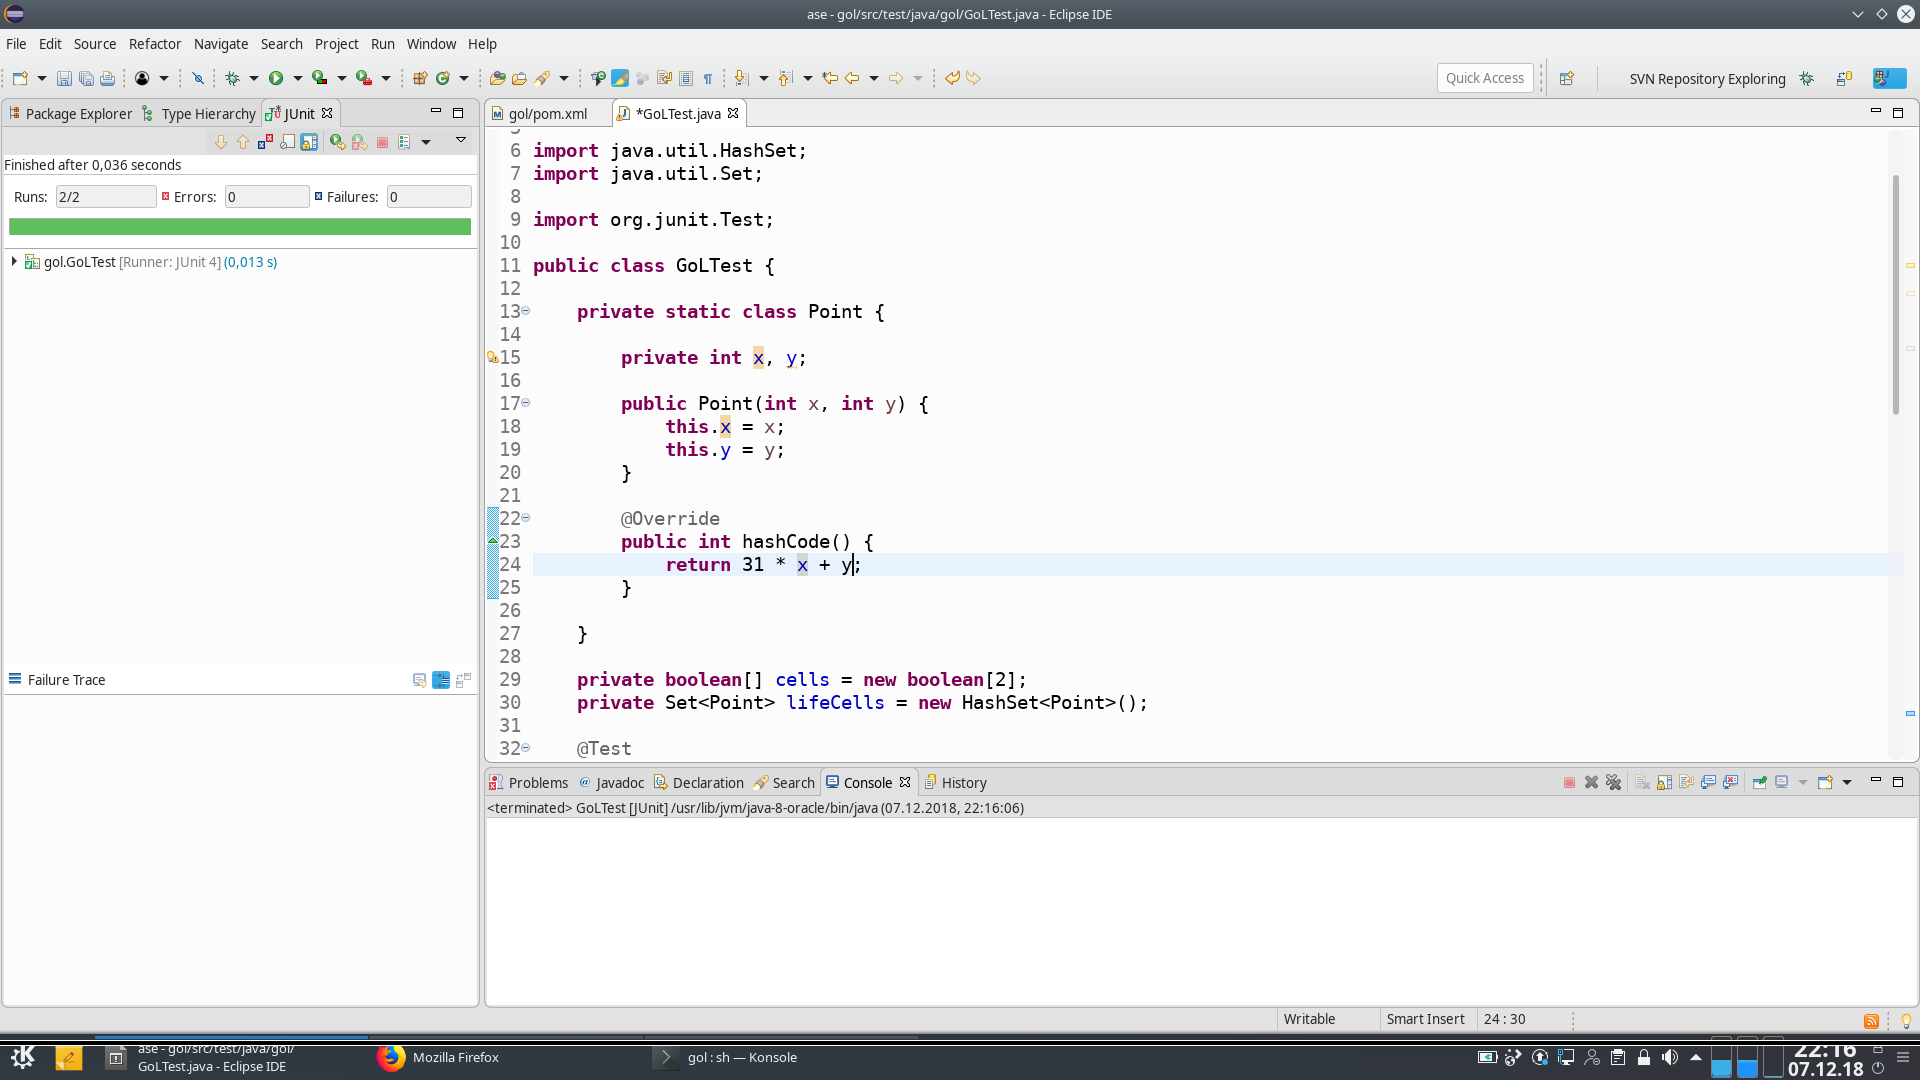
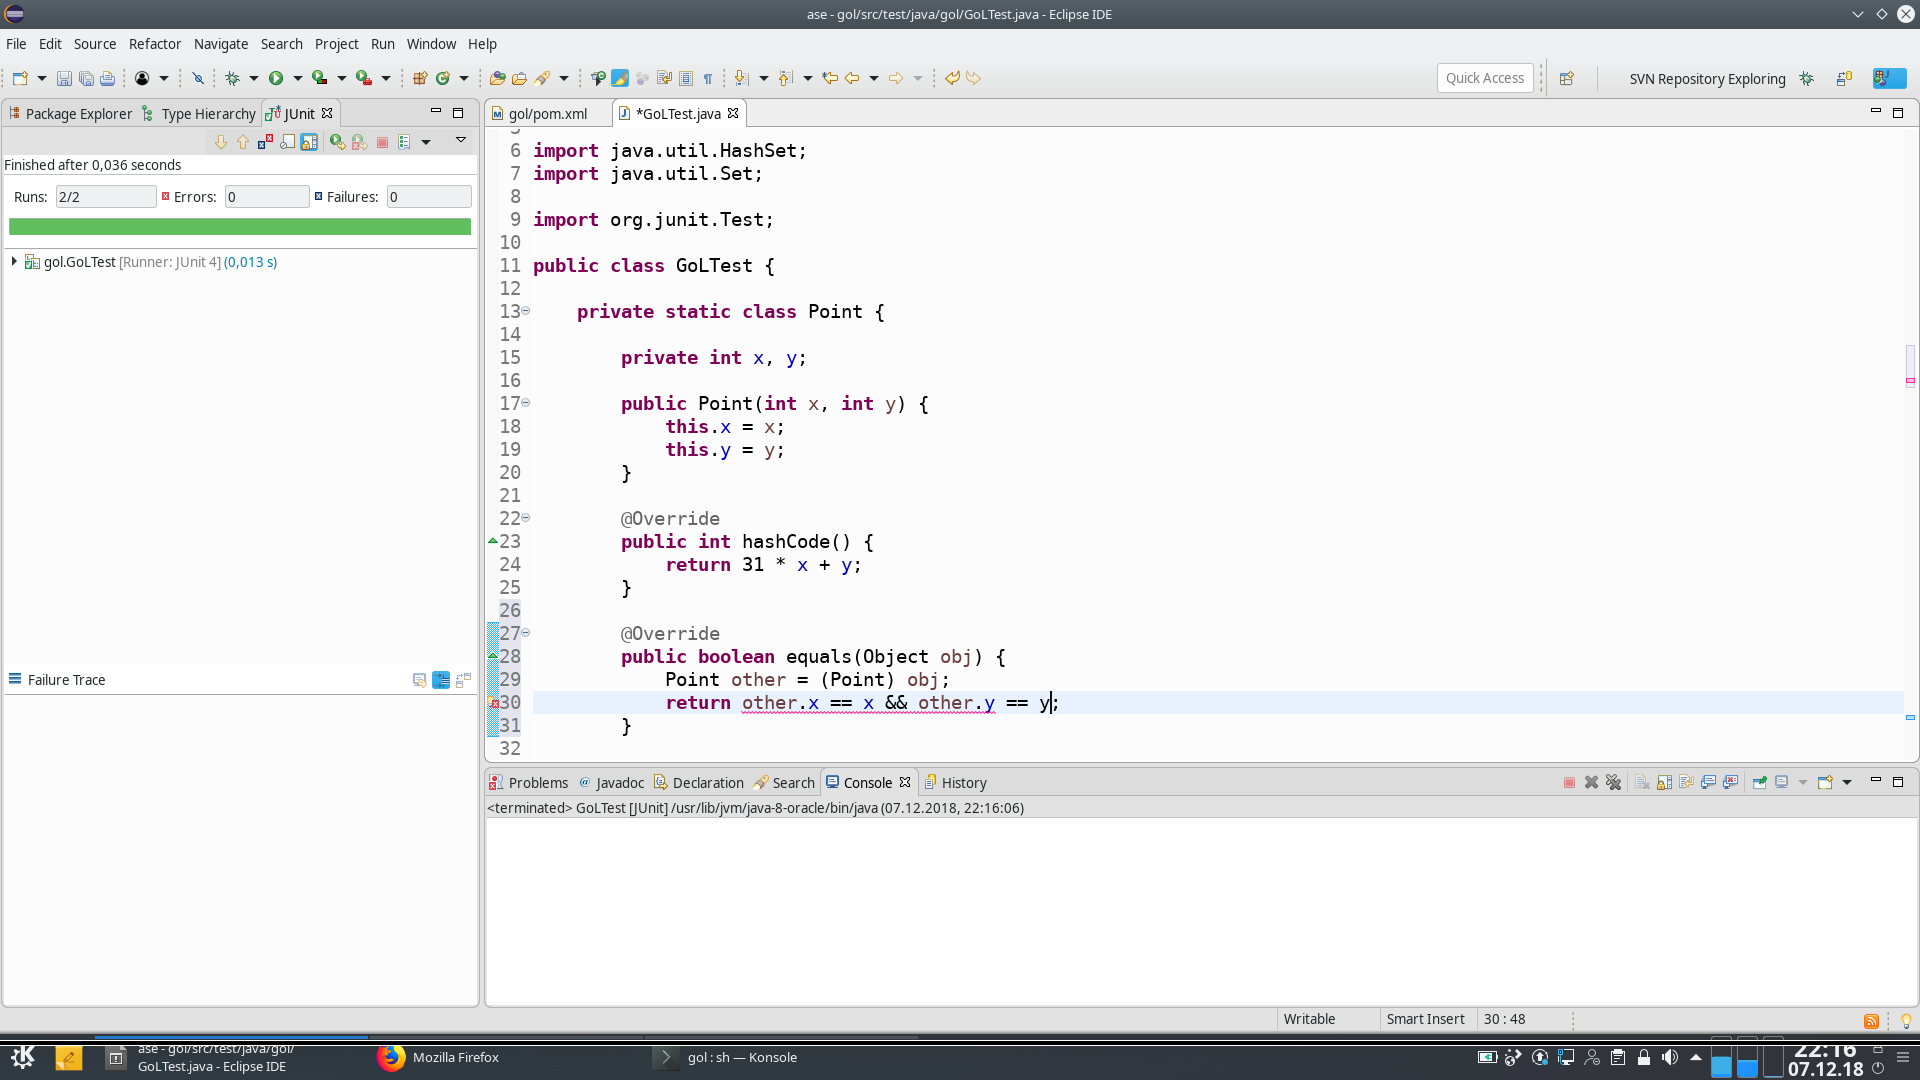
autocommit on change

diff --git a/src/test/java/gol/GoLTest.java b/src/test/java/gol/GoLTest.java
@@ -23,6 +23,12 @@ public class GoLTest {
 		public int hashCode() {
 			return 31 * x + y;
 		}
+		
+		@Override
+		public boolean equals(Object obj) {
+			Point other = (Point) obj;
+			return other.x == x && other.y == y;
+		}
 
 	}
 
